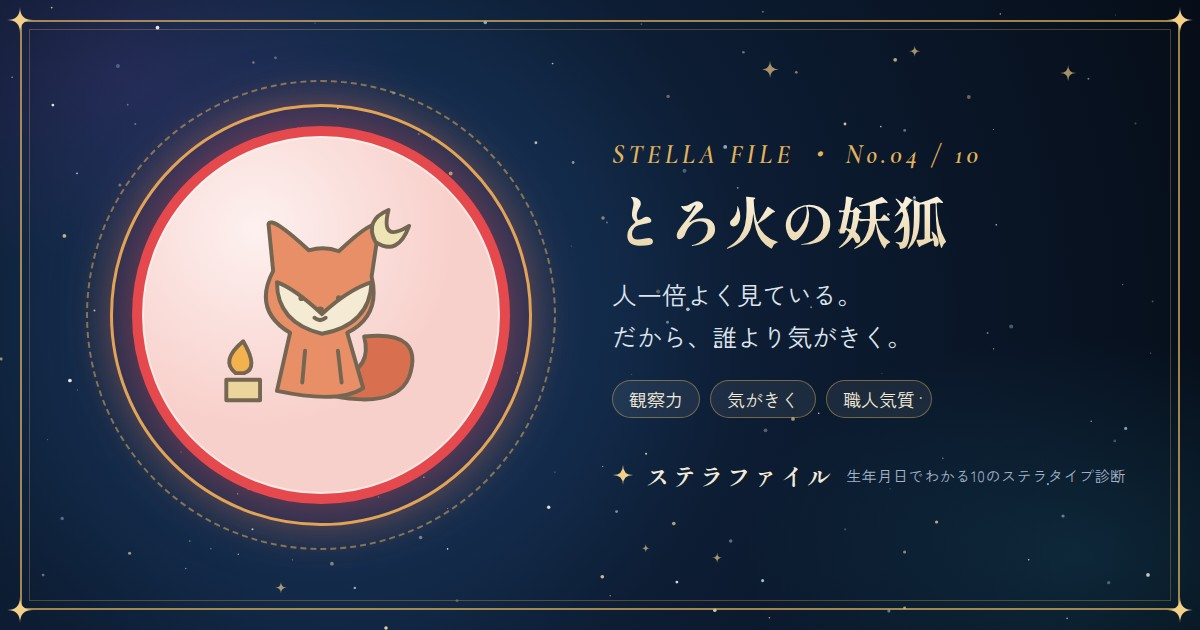
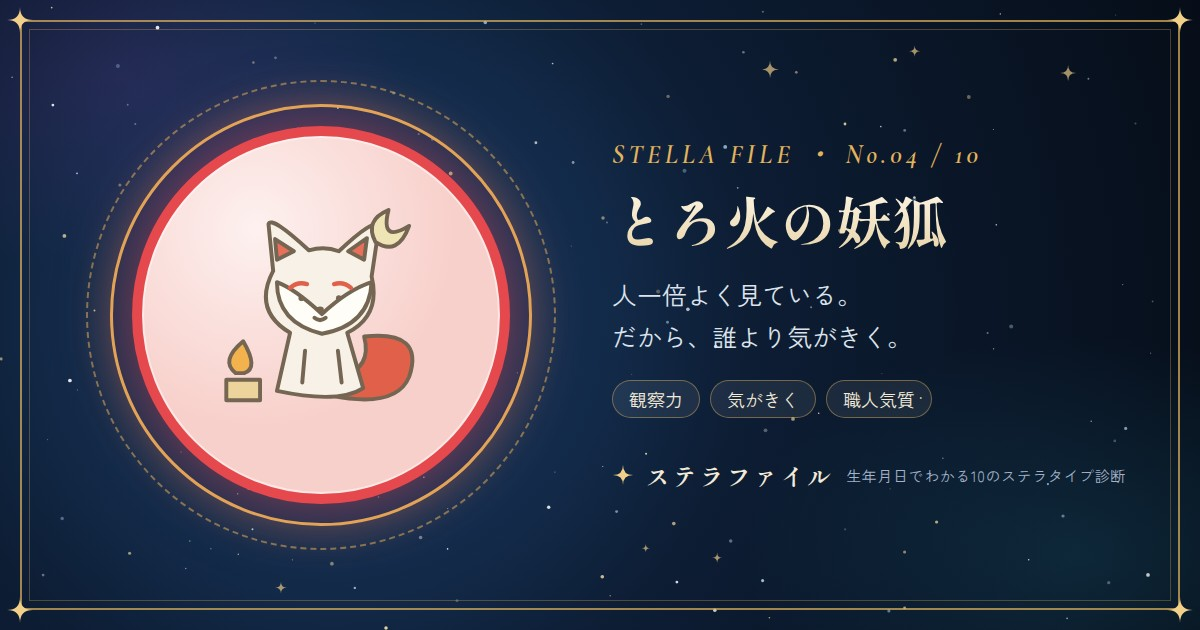
Keep the grizzly brown and make the fox white and red
The grizzly keeps its natural brown body and carries wood green in its
ribbon and sprout. The fox becomes a white Inari-style fox with
vermilion inner ears, brow markings and tail. Prompts, art direction
doc and OG images updated to match.

Claude-Session: https://claude.ai/code/session_01GAXW9NdvsHc4VH9BHs7hcc

Changed region(s): [[0.2158, 0.3619, 0.3083, 0.6333]]

diff --git a/src/data/types.ts b/src/data/types.ts
@@ -22,10 +22,10 @@ export type CharacterType = {
   keywords: string[]; motif: string; props: string[]; backgroundMotifs: string[]; imagePrompt: string;
 };
 export const CHARACTER_TYPES: CharacterType[] = [
-  { stem: "甲", slug: "grizzly", displayName: "ほめ待ちグリズリー", shortCatch: "頼れるしっかり者。でも本当は、ほめてほしい。", summary: "まっすぐで、決めたことをコツコツ積み上げるタイプ。さっぱりした性格で、曲がったことやずるいことが大嫌いです。リーダーを任されるのは嫌いじゃないけれど、シャイなので自分から名乗り出るのは少し苦手。任されてほめられると、実はとてもうれしい。頼もしさと、素直でかわいいところのギャップが魅力です。", strengths: ["コツコツ努力を積み重ねられる", "曲がったことをしないまっすぐさ", "しんどくても投げ出さない忍耐力"], keywords: ["まっすぐ", "さっぱり", "コツコツ"], motif: "大きな木", props: ["小さな胸のリボン"], backgroundMotifs: ["若葉", "控えめな花丸"], imagePrompt: "A sturdy soft moss-green grizzly with a pale cream bib, sitting upright, paws shyly together, tiny cream-gold ribbon on chest, quietly waiting for praise; one small green sprout beside it." },
+  { stem: "甲", slug: "grizzly", displayName: "ほめ待ちグリズリー", shortCatch: "頼れるしっかり者。でも本当は、ほめてほしい。", summary: "まっすぐで、決めたことをコツコツ積み上げるタイプ。さっぱりした性格で、曲がったことやずるいことが大嫌いです。リーダーを任されるのは嫌いじゃないけれど、シャイなので自分から名乗り出るのは少し苦手。任されてほめられると、実はとてもうれしい。頼もしさと、素直でかわいいところのギャップが魅力です。", strengths: ["コツコツ努力を積み重ねられる", "曲がったことをしないまっすぐさ", "しんどくても投げ出さない忍耐力"], keywords: ["まっすぐ", "さっぱり", "コツコツ"], motif: "大きな木", props: ["小さな胸のリボン"], backgroundMotifs: ["若葉", "控えめな花丸"], imagePrompt: "A sturdy honey-brown grizzly with a pale cream bib, sitting upright, paws shyly together, tiny leaf-green ribbon on chest, quietly waiting for praise; one small green sprout beside it." },
   { stem: "乙", slug: "rabbit", displayName: "ちゃっかりうさぎ", shortCatch: "人に合わせるのが上手。気づけば、いいポジションにいる。", summary: "人に合わせるのが上手で、自然とかわいがられるタイプ。「面倒を見てあげたい」「守ってあげたい」と思われやすく、人と仲良くなったことがきっかけで、得をしたりチャンスをもらえたりします。友だちも多くなりやすい、人間関係に恵まれやすい人です。", strengths: ["相手に合わせるのが上手", "かわいがられて、助けてもらいやすい", "人との縁をチャンスに変えられる"], keywords: ["人に合わせ上手", "かわいがられ上手", "ちゃっかり"], motif: "草花", props: ["小さな花のアクセサリー"], backgroundMotifs: ["クローバー"], imagePrompt: "An ivory rabbit with long rounded ears, one foot lifted lightly, a tiny four-leaf clover tucked behind one ear, a small clover at its feet, knowing but kind expression." },
   { stem: "丙", slug: "phoenix", displayName: "勝手に主役フェニックス", shortCatch: "いるだけで場が明るくなる、生まれつきの主役。", summary: "根っから明るい、太陽のようなタイプ。ほかのタイプと比べても圧倒的にポジティブで、一緒にいる人まで元気で前向きな気持ちにしてくれます。顔や名前を覚えてもらいやすく、目立ってこそ輝く、まさに人生の主役です。", strengths: ["根っからのポジティブさ", "周りを元気で前向きな気持ちにできる", "顔や名前を覚えてもらいやすい"], keywords: ["ポジティブ", "目立ってなんぼ", "ムードメーカー"], motif: "太陽", props: ["小さな丸いステージ"], backgroundMotifs: ["短い光の線"], imagePrompt: "A small coral-red phoenix with a cream belly and golden beak, a simple three-feather crest, wings open on a tiny round gold stage, three short sunshine rays, cheerfully unaware it is the star." },
-  { stem: "丁", slug: "fox", displayName: "とろ火の妖狐", shortCatch: "人一倍よく見ている。だから、誰より気がきく。", summary: "観察力が人一倍強く、ほかの人が見落とす細かいところまで見えているタイプ。だからこそ、言われる前に相手の変化に気づけて、気がきく人と言われます。目の前のものをじっくり見るのが得意で、好きなことにはマニアックなほどこだわる職人気質です。", strengths: ["ほかの人が気づかないことに気づける", "細かいところまでこだわれる職人気質", "人間観察が上手"], keywords: ["観察力", "気がきく", "職人気質"], motif: "灯火", props: ["小さな灯り"], backgroundMotifs: ["細い三日月"], imagePrompt: "A calm vermilion-red fox with a cream face and chest, a single large curled deeper-red tail and rounded ears, sitting beside a tiny warm candle in a clay holder, one small crescent moon, modest closed-mouth smile." },
+  { stem: "丁", slug: "fox", displayName: "とろ火の妖狐", shortCatch: "人一倍よく見ている。だから、誰より気がきく。", summary: "観察力が人一倍強く、ほかの人が見落とす細かいところまで見えているタイプ。だからこそ、言われる前に相手の変化に気づけて、気がきく人と言われます。目の前のものをじっくり見るのが得意で、好きなことにはマニアックなほどこだわる職人気質です。", strengths: ["ほかの人が気づかないことに気づける", "細かいところまでこだわれる職人気質", "人間観察が上手"], keywords: ["観察力", "気がきく", "職人気質"], motif: "灯火", props: ["小さな灯り"], backgroundMotifs: ["細い三日月"], imagePrompt: "A calm white fox with vermilion-red inner ears and short red brow markings, a single large curled vermilion-red tail and rounded ears, sitting beside a tiny warm candle in a clay holder, one small crescent moon, modest closed-mouth smile." },
   { stem: "戊", slug: "panda", displayName: "親分パンダ", shortCatch: "どっしり構えて、ぶれない。頼れるみんなの親分。", summary: "どっしり構えて、自分の軸をぶらさないタイプ。流行に流されず、好きなものはずっと好き。親分肌で、頼られるとうれしくなって面倒を見てしまいます。ふだんは穏やかですが、内側にはマグマのような激しさを秘めていて、いざというときの度胸はピカイチです。", strengths: ["自分の軸をぶらさない", "いざというときの度胸", "頼ってくれる人を最後まで守れる"], keywords: ["どっしり", "親分肌", "度胸"], motif: "山", props: ["お茶のカップ"], backgroundMotifs: ["小さな丘"], imagePrompt: "A round ivory and charcoal panda sitting with a broad reassuring posture, holding a tiny mustard-yellow teacup, a simple low hill line behind, gentle dependable expression." },
   { stem: "己", slug: "kangaroo", displayName: "ほっとけないカンガルー", shortCatch: "困っている人を、ほっとけない。家族みたいなお世話係。", summary: "献身的で面倒見がよく、家族のようにみんなのお世話をしてしまうタイプ。和を大事にするバランサーで、人を育てるのが得意です。ただ、心配しすぎて大変な役まで引き受け、我慢をためこんでしまうことも。どこか独特な雰囲気を持つ、愛されキャラです。", strengths: ["家族のように人を思いやれる献身さ", "場の和を保つバランス感覚", "人をじっくり育てられる"], keywords: ["献身的", "バランサー", "育て上手"], motif: "畑", props: ["お腹の袋からのぞく子ども"], backgroundMotifs: ["芽吹き"], imagePrompt: "A warm golden-ochre kangaroo with a cream belly, sitting softly upright with tall rounded ears, a tiny joey peeking out of its pouch, one small paw raised in a caring gesture, one sprout beside it, gentle worried-but-kind expression." },
   { stem: "庚", slug: "doberman", displayName: "正々堂々ドーベルマン", shortCatch: "遠回しな言い方は苦手。でも、誰より義理がたい。", summary: "白黒はっきりさせたい、筋の通ったタイプ。ずるや嘘が本当に苦手で、義理は何より大切にします。ストレートなぶん衝突も多く、好き嫌いがはっきり分かれやすい人。でも、好きになってくれる人からはとことん好かれます。", strengths: ["何より義理を守れる", "ずるや嘘をしないまっすぐさ", "問題から逃げずに向き合える"], keywords: ["義理がたい", "まっすぐ", "好き嫌いが分かれる"], motif: "鉄", props: ["小さな盾のバッジ"], backgroundMotifs: ["一本の旗"], imagePrompt: "A friendly silver-gray doberman with a white muzzle and natural soft floppy ears, upright but rounded posture, a small gold shield badge on a steel-blue collar, tiny white flag planted next to it, earnest expression, never aggressive." },

diff --git a/docs/art-direction.md b/docs/art-direction.md
@@ -12,7 +12,7 @@
 
 全キャラクターを320×320 viewBox、太さ4.2の暖かい茶線、丸いlinecap/linejoin、フラットカラーで統一。参考画像はニュアンスのみを参照し、オリジナル仮SVGを実装しています。
 
-キャラクターの体色は、そのタイプのエレメント色に寄せます（木＝モスグリーン、火＝朱・コーラル、土＝山吹・黄土、金＝シルバー＋パール、水＝紺・ブルー）。茶系は線の色だけにし、体色には使いません。動物らしさが色で出しにくいタイプ（うさぎ・パンダ）は、四つ葉のクローバーや黄色の湯のみなど、小物でエレメント色を添えます。線の色 `#756653` は全キャラクター共通です。
+キャラクターの色は、そのタイプのエレメント色に寄せます（木＝緑、火＝朱・コーラル、土＝山吹・黄土、金＝シルバー＋パール、水＝紺・ブルー）。体色で出すと動物らしさが薄れるタイプ（グリズリー・うさぎ・パンダ）は、体は本来の色のまま、緑のリボン、四つ葉のクローバー、黄色の湯のみなど小物でエレメント色を添えます。妖狐は白地に朱の耳・隈取り・しっぽ。線の色 `#756653` は全キャラクター共通です。
 
 ## アセットの仕様
 
